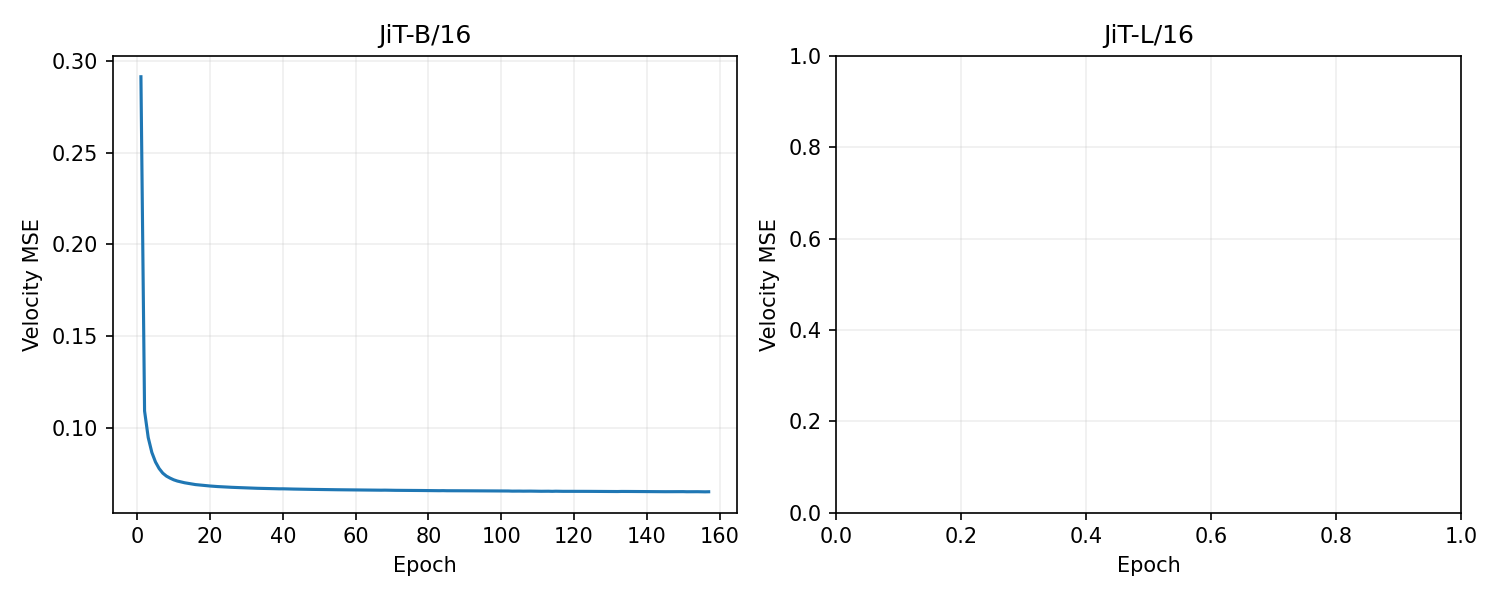
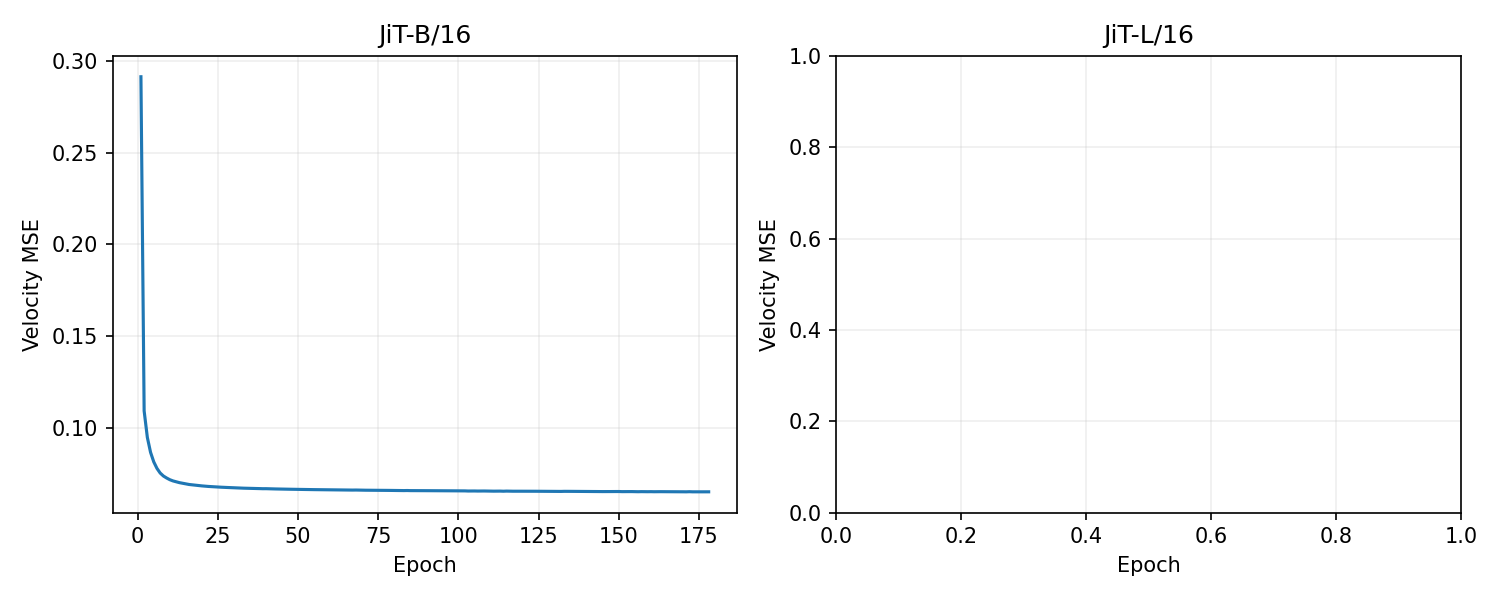
Update JiT reproduction evidence and measured status

diff --git a/reports/REPORT.md b/reports/REPORT.md
@@ -1,20 +1,20 @@
 # JiT 官方配置复现实验报告
 
-更新时间：2026-09-29T04:20:38.355659+00:00
+更新时间：2026-09-29T06:30:38.689722+00:00
 
 ## 当前进度
 
 **已完成训练与最终评估：0/2。** 当前展示独立的 4 卡实验。训练轮数取自逐轮日志；此前每 5 轮保存，新增资源候选后四卡训练每轮保存，异常退出后从检查点恢复：
 
-自动汇报：每 6 小时在本对话和 GitHub 更新（美东 02:30, 08:30, 14:30, 20:30），状态 `active`；下一次计划时间：2026-09-29T02:30:00-04:00。定时器所在登录主机需保持运行。
+自动汇报：每 6 小时在本对话和 GitHub 更新（美东 02:30, 08:30, 14:30, 20:30），状态 `active`；下一次计划时间：2026-09-29T08:30:00-04:00。定时器所在登录主机需保持运行。
 
-- JiT-B/16：训练历史日志最高完成 157/200 epochs；可恢复检查点为第 156 轮。
+- JiT-B/16：训练历史日志最高完成 178/200 epochs；可恢复检查点为第 178 轮。
 
 - JiT-L/16：训练历史日志最高完成 0/200 epochs；可恢复检查点为第 0 轮。
 
-JiT-B/16 最近 5 个 epoch 平均 19.3 分钟；剩余训练约 13.8 小时，不含评估、重试和排队。
+JiT-B/16 最近 5 个 epoch 平均 5.9 分钟；剩余训练约 2.1 小时，不含评估、重试和排队。
 
-JiT-B/16 第 120 epoch 中途评估：FID-8000=9.9013，CFG=2.9，EMA=0.9996。这是中途 8K 指标，不能作为最终 FID-50K 结果。
+JiT-B/16 第 160 epoch 中途评估：FID-8000=8.9342，CFG=2.9，EMA=0.9996。这是中途 8K 指标，不能作为最终 FID-50K 结果。
 
 按用户最新要求，全部训练任务均为总计四卡。遗留八卡待运行队列已取消；取消记录见 [jobs_8gpu_retired.json](jobs_8gpu_retired.json)。
 
@@ -46,7 +46,7 @@ Slurm 队列：
 101983 jit_b16_l16_4gpu RUNNING alphagpu20
 ```
 
-流水线记录：2026-09-29 00:20 EDT 自动检查：正在运行：101983 (alphagpu20)。 训练历史最大轮数和可恢复检查点分别列出。
+流水线记录：2026-09-29 02:30 EDT 自动检查：正在运行：101983 (alphagpu20)。 训练历史最大轮数和可恢复检查点分别列出。
 
 ## 预注册设置
 
